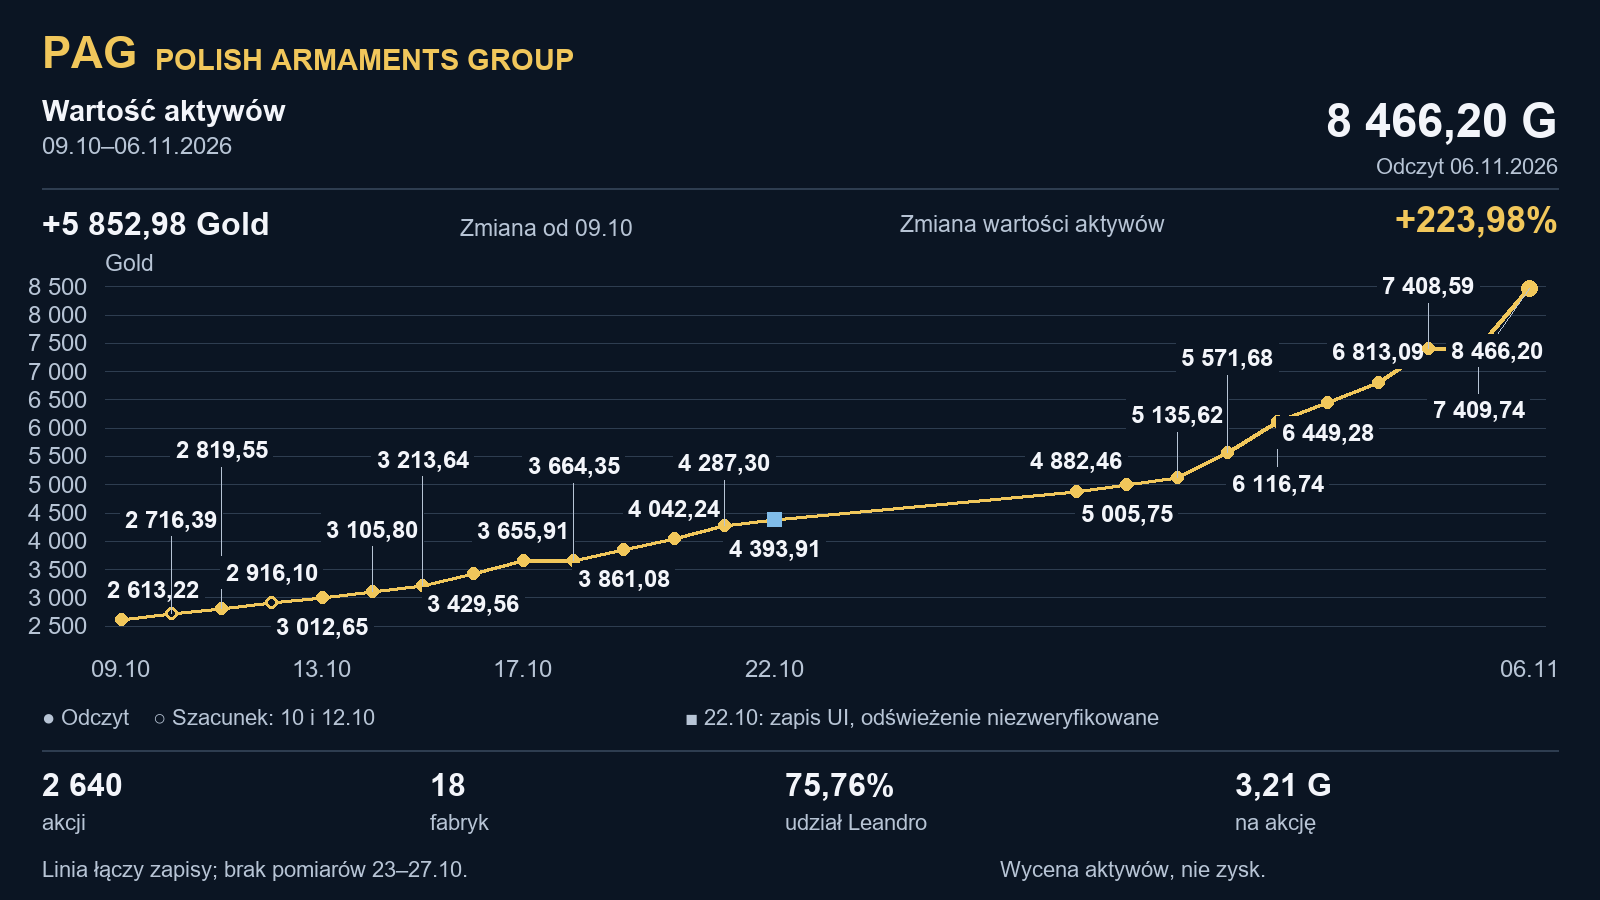
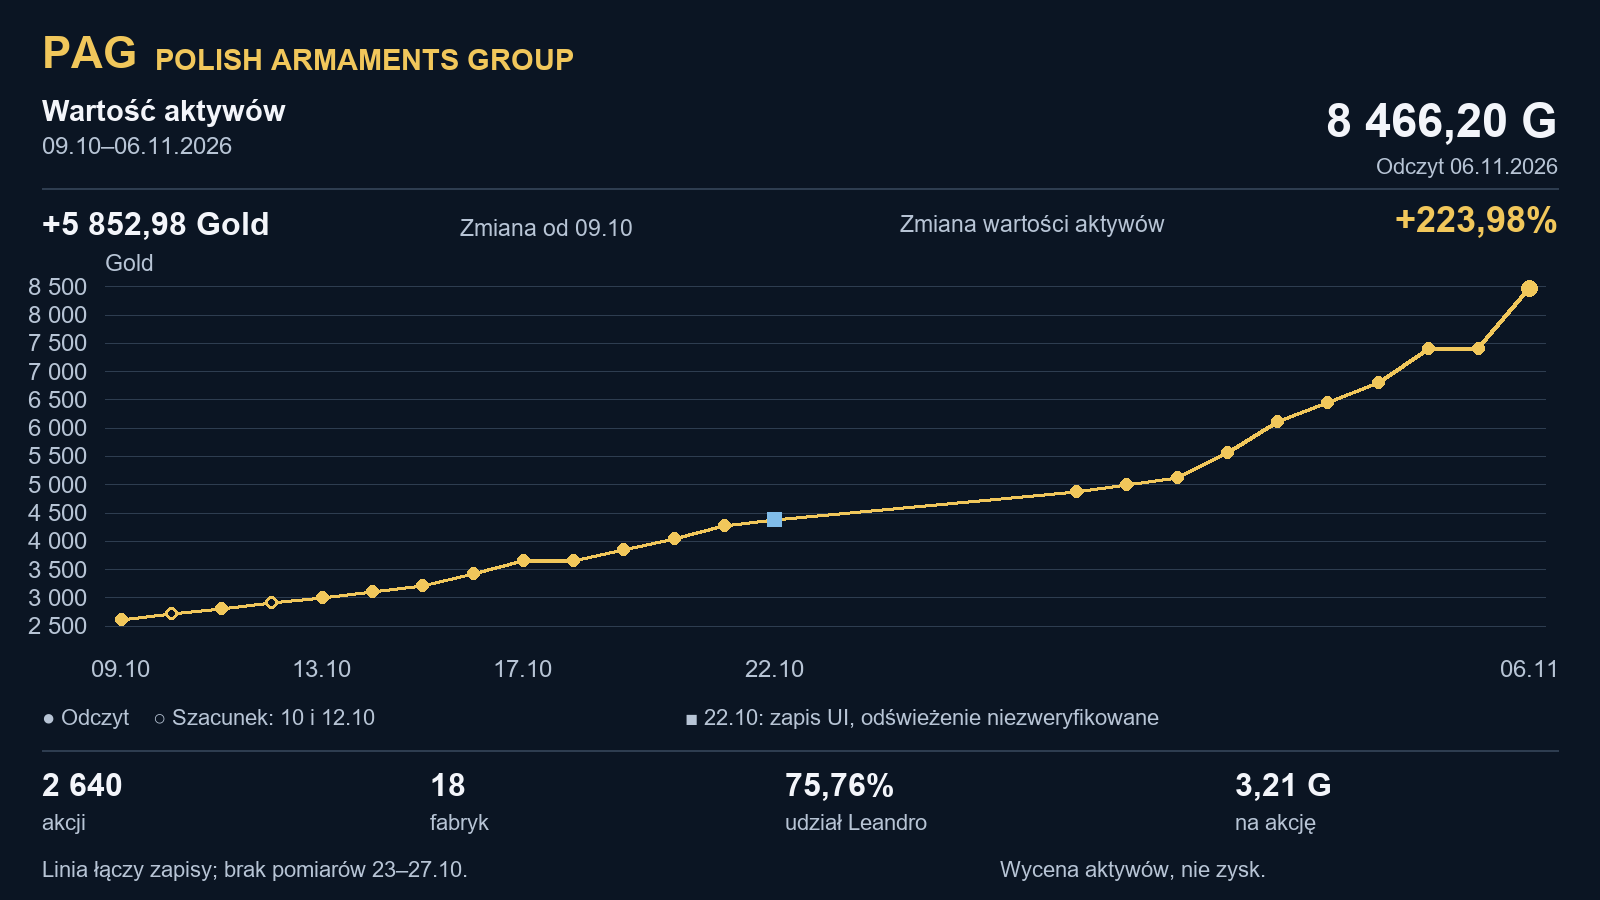
Remove daily value labels from PAG chart

diff --git a/build.py b/build.py
@@ -59,28 +59,11 @@ for value in range(((int(low)+499)//500)*500,int(high),500):
 # Draw connectors before markers so they do not overpaint hollow points.
 for i in range(1,len(rows)):
     draw.line((x(dates[i-1]),y(values[i-1]),x(dates[i]),y(values[i])),fill=gold,width=4)
-occupied=[]
 for i,d in enumerate(rows):
     px=x(dates[i]);py=y(values[i]);status=d.get('status','confirmed')
     if status=='saved_ui_refresh_unverified': draw.rectangle((px-7,py-7,px+7,py+7),fill=blue)
     else: draw.ellipse((px-6,py-6,px+6,py+6),fill=bg if status=='estimated_missing_day' else gold,outline=gold,width=3)
     if i==len(rows)-1: draw.ellipse((px-8,py-8,px+8,py+8),fill=gold)
-    label=number(values[i])
-    label_font=font(24,True)
-    width=draw.textbbox((0,0),label,font=label_font)[2]
-    lx=min(max(px,left+width/2+2),right-width/2-2)
-    options=[sign*offset for offset in range(30,285,32) for sign in ((-1,1) if i%2==0 else (1,-1))]
-    for offset in options:
-        ly=py+offset
-        rect=(lx-width/2-5,ly-16,lx+width/2+5,ly+16)
-        if rect[1]<top-10 or rect[3]>bottom+16: continue
-        if not any(rect[0]<r[2]+8 and rect[2]>r[0]-8 and rect[1]<r[3]+8 and rect[3]>r[1]-8 for r in occupied):
-            break
-    else: raise ValueError('No non-overlapping position for '+d['date'])
-    occupied.append(rect)
-    if abs(offset)>35: draw.line((px,py,lx,ly+(16 if offset<0 else -16)),fill=muted,width=1)
-    draw.rectangle(rect,fill=bg)
-    text(lx,ly,label,24,fg,True,anchor='mm')
 tick_indexes=sorted(set([0, min(4,len(rows)-1),min(8,len(rows)-1),min(13,len(rows)-1),len(rows)-1]))
 for i in tick_indexes:
     text(x(dates[i]),660,dates[i].strftime('%d.%m'),24,muted,anchor='mt')
